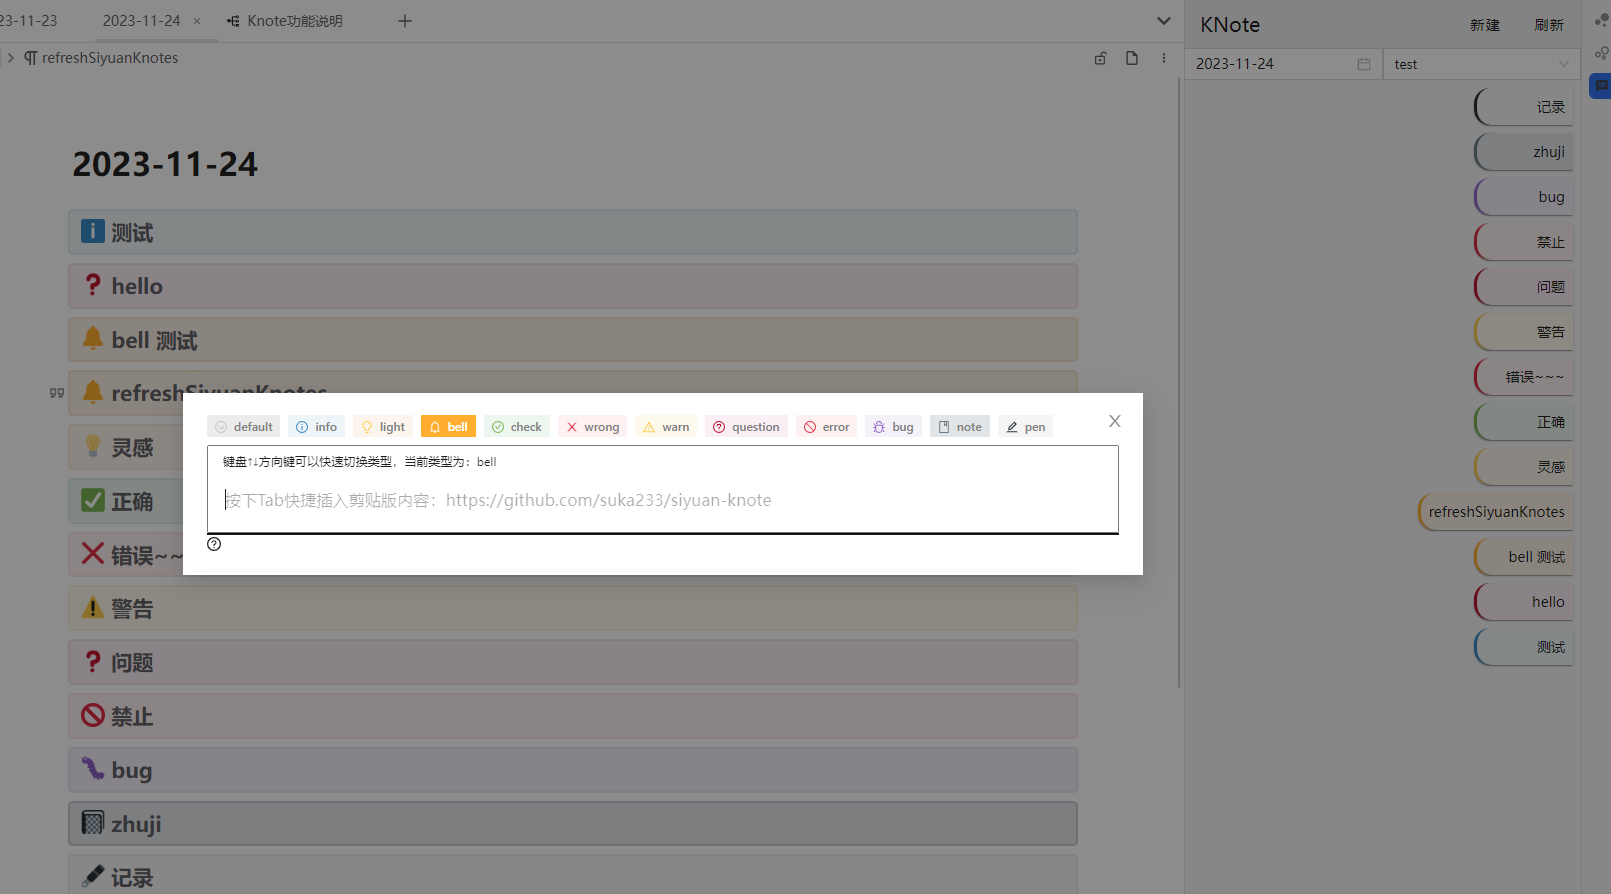
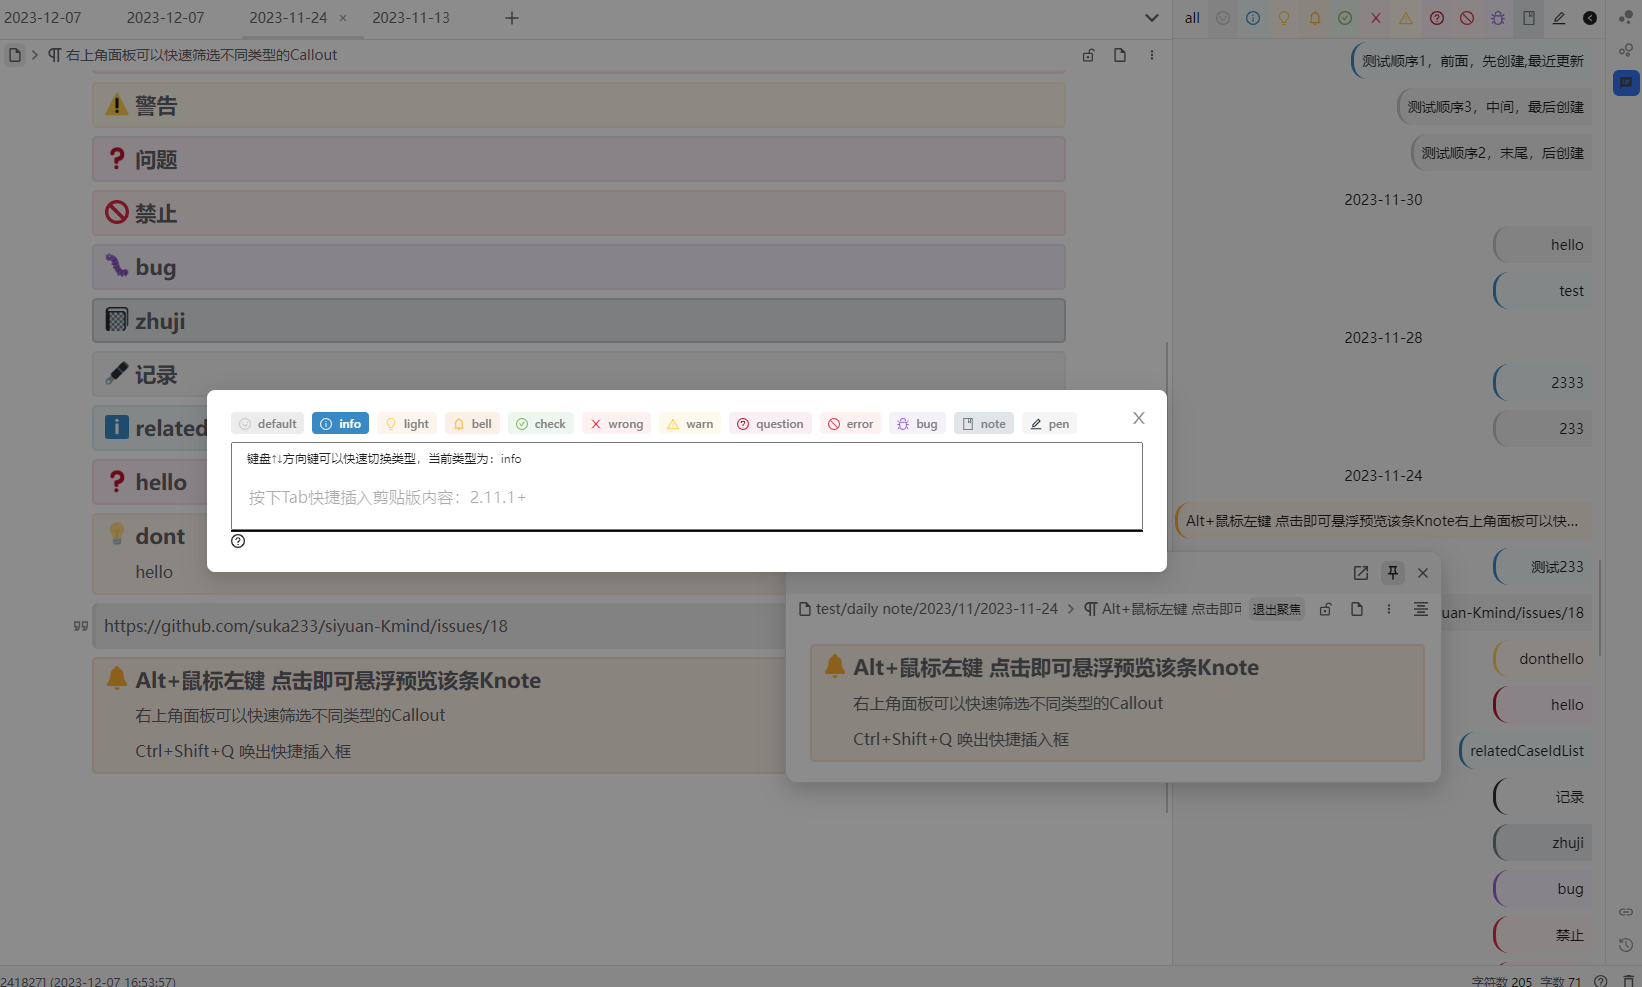
feat(v1.2.0): 发布版本v1.2.0 实验性支持所有类型的daily note，新增筛选面板，新增快速滚动功能

diff --git a/src/components/knoteDock/src/components/DateSetting/index.vue b/src/components/knoteDock/src/components/DateSetting/index.vue
@@ -54,11 +54,12 @@
                   <span>启用新版查询</span>&nbsp;
                   <a-tooltip>
                     <template #title>
-                      <p>-支持思源版本(2.11.1+)之后创建的任意路径格式的日记</p>
+                      <p>- 此为实验性功能，如果有bug请及时反馈，感谢</p>
+                      <p>- 支持思源版本(2.11.1+)之后创建的任意路径格式的日记</p>
                       <p>
-                        -如果需要能够查询到以前的日记，可以使用'今日笔记'插件的[为过去的 Daily Note 补充文档属性]功能
+                        - 如果需要能够查询到以前的日记，可以使用'今日笔记'插件的[为过去的 Daily Note 补充文档属性]功能
                       </p>
-                      <p>-下载 '今日笔记' 插件，会有详细的指引</p>
+                      <p>- 下载 '今日笔记' 插件，会有详细的指引</p>
                     </template>
                     <QuestionCircleOutlined />
                   </a-tooltip>

diff --git a/README.md b/README.md
@@ -12,7 +12,8 @@ KNote的K意味着Keep，所以KNote的作用是帮助你持续记录
 安装好KNote插件后，在右侧dock栏中会出现一个KNote的图标，点击即可唤出KNote的面板，然后点击面板内的设置按钮，设置指定的笔记本，即可自动刷新
 
 ## 限制
-1.目前仅仅支持标准格式的daily note,即如果你没有更改过daily note的路径,那么这个插件就可以正常使用，或者日记的路径格式为形似如下这种：`/daily note/年-月-日`,那么应该也能正常使用。之后会慢慢适配其它路径格式的daily note
+1.~~目前仅仅支持标准格式的daily note,即如果你没有更改过daily note的路径,那么这个插件就可以正常使用，或者日记的路径格式为形似如下这种：`/daily note/年-月-日`,那么应该也能正常使用。之后会慢慢适配其它路径格式的daily note~~
+感谢f佬，由于f佬的新提案，现在任意路径的daily note都可以正常使用了！（实验性功能，请确保思源版本2.11.1+，并且下载并安装 “今日笔记” 插件，它会指引你帮你补齐以前缺失的日记属性）
 
 2.推荐和[Savor Callout插件](https://github.com/frostime/sy-bq-callout)一起使用，这样可以获得完整体验，后期会推出自定义Callout类型的支持
 
@@ -25,6 +26,16 @@ KNote的K意味着Keep，所以KNote的作用是帮助你持续记录
 流向的地方当然是我最爱的思源笔记，但是最方便的方法？ok，是时候开发全平台的KNote了。目前独立桌面端的开发进度为70%，支持全局添加，同步思源Callout,固定至桌面等等功能，如果你感兴趣，欢迎进入QQ群讨论
 
 ## 更新日志
+
+### v1.2.0
+
+新增：
+
+1. 支持任意格式的daily note路径类型（实验性功能，请确保思源版本2.11.1+），需要手动开启，具体操作如下：
+    1. 下载并安装 “今日笔记” 插件，它会指引你帮你补齐以前缺失的日记属性
+    2. 在思源笔记右侧的dock栏中找到KNote，然后在KNote设置面板中，勾选“启用新版查询”即可
+2. 新增筛选功能，可以筛选出指定的Callout类型
+3. 滚动到指定日期功能：当展示粒度为全部的时候，切换日期，可以在KNote面板中快速滚动到指定日期
 
 ### v1.1.0
 
